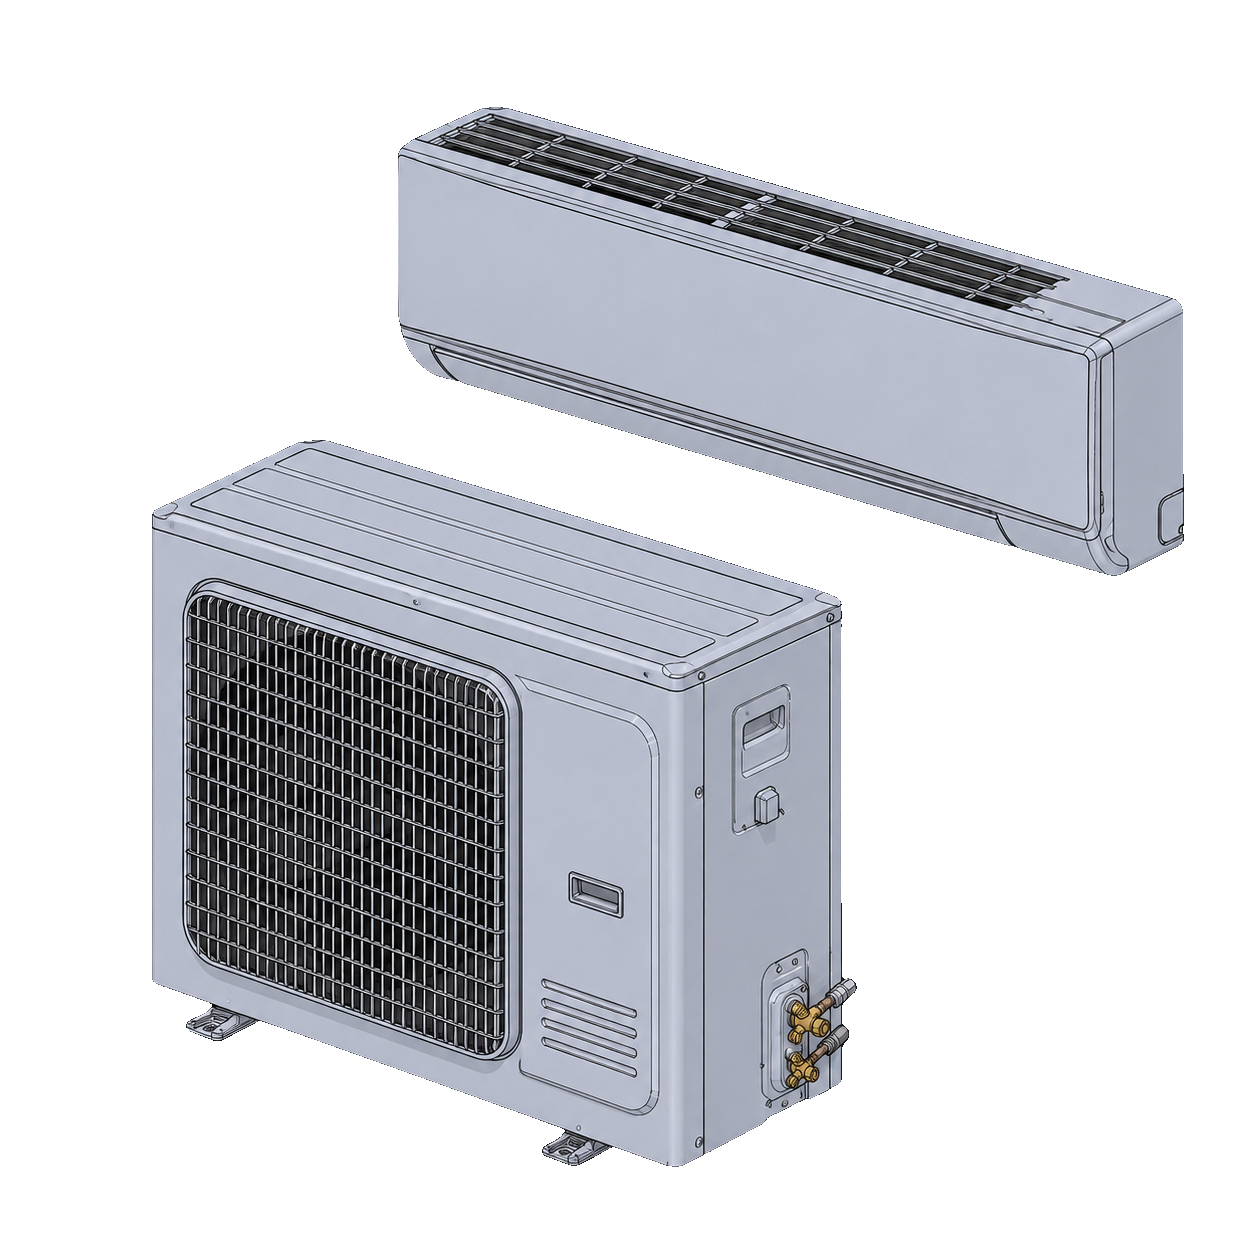
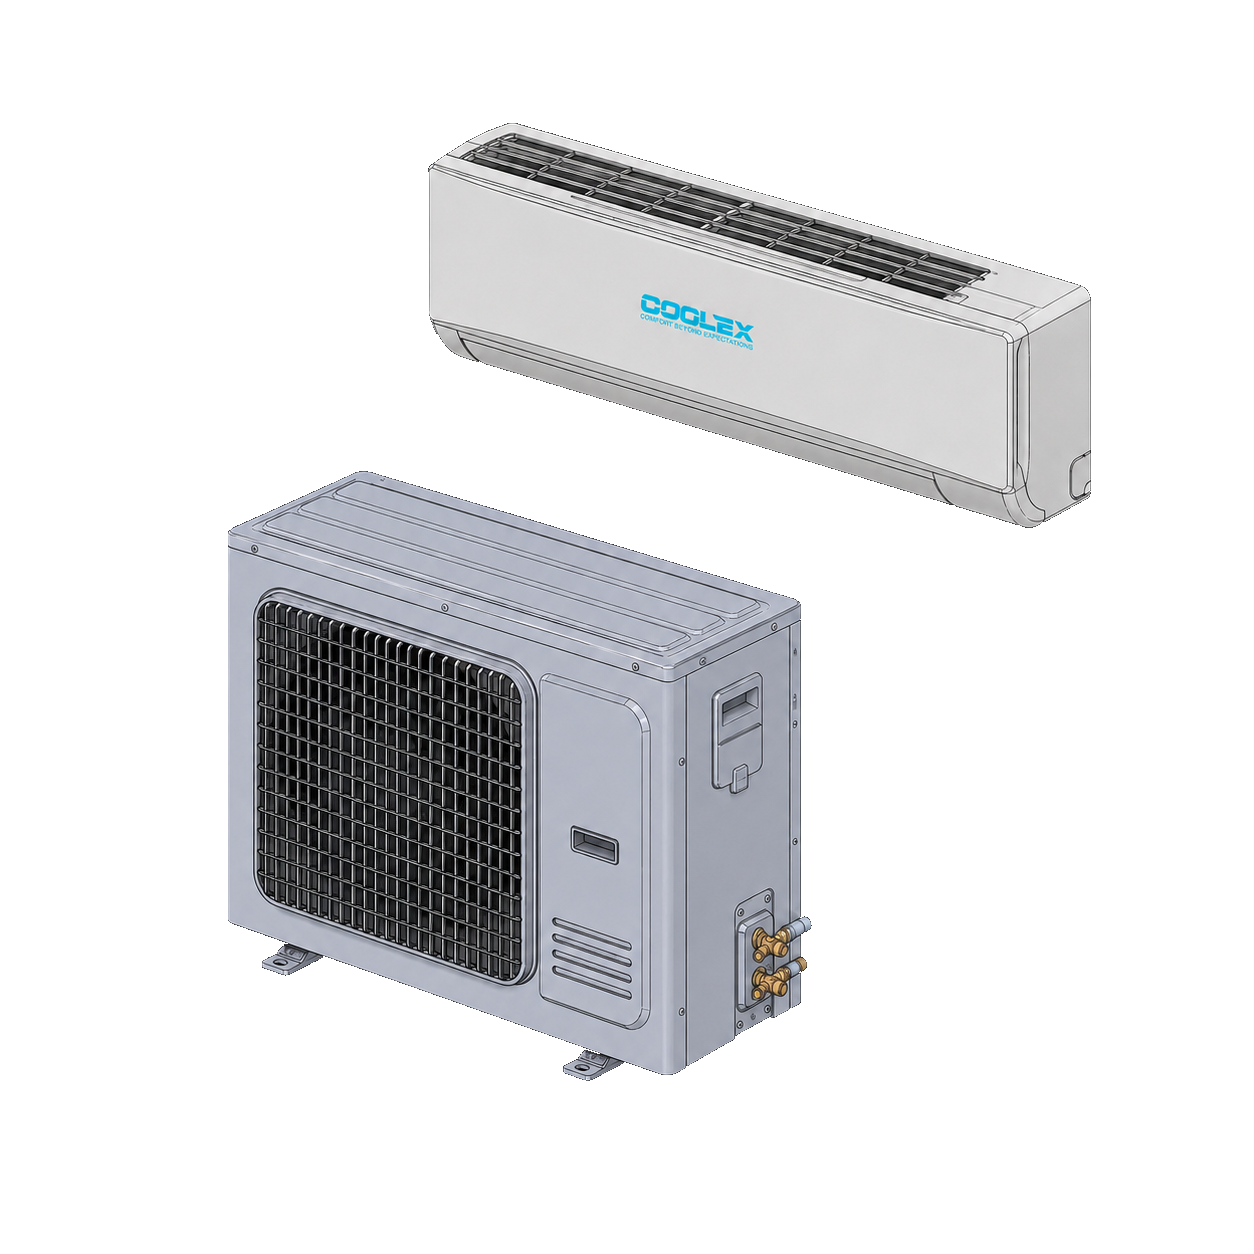
feat: update SeriesGrid, product series data, and MS wall image

Changed region(s): [[0.0933, 0.3421, 0.6842, 0.933], [0.311, 0.0622, 0.9641, 0.4665]]

diff --git a/components/selection/SeriesGrid.tsx b/components/selection/SeriesGrid.tsx
@@ -100,23 +100,21 @@ export function SeriesGrid() {
         });
     }
 
-    // Fallback: group by refrigerant
-    const groups = new Map<string, ProductSeries[]>();
-    for (const s of series) {
-      const ref = s.primaryRefrigerant;
-      if (!groups.has(ref)) groups.set(ref, []);
-      groups.get(ref)!.push(s);
-    }
-    // Order refrigerants with R-410A first, then the rest alphabetically
+    // Fallback: no speed types. The refrigerant is already shown as a badge on
+    // each card, so a refrigerant section header would just duplicate it. Render
+    // a single header-less group (ordering R-410A first) so the cards flow in a
+    // flat grid.
     const refOrder = (ref: string) => (ref === 'R-410A' ? 0 : 1);
-    return Array.from(groups.entries())
-      .sort(([a], [b]) => refOrder(a) - refOrder(b) || a.localeCompare(b))
-      .map(([ref, items]) => ({
-        key: ref,
-        label: ref,
-        icon: 'snowflake' as const,
-        items,
-      }));
+    const ordered = [...series].sort(
+      (a, b) => refOrder(a.primaryRefrigerant) - refOrder(b.primaryRefrigerant)
+        || a.primaryRefrigerant.localeCompare(b.primaryRefrigerant)
+    );
+    return [{
+      key: 'all',
+      label: '',
+      icon: 'snowflake' as const,
+      items: ordered,
+    }];
   }, [series, hasSpeedTypes]);
 
 

diff --git a/lib/mock-data/product-series.ts b/lib/mock-data/product-series.ts
@@ -49,11 +49,11 @@ export const PRODUCT_SERIES: ProductSeries[] = [
     name: 'Wall Mounted',
     fullName: 'Mini-Split Wall-Mounted Series',
     modelPrefix: 'MS-W',
-    minTons: 0.75,
-    maxTons: 4,
-    tonRangeLabel: '0.75 – 4 Tons',
-    refrigerants: ['R-32'],
-    primaryRefrigerant: 'R-32',
+    minTons: 1.5,
+    maxTons: 3,
+    tonRangeLabel: '1.5 – 3 Tons',
+    refrigerants: ['R-410A'],
+    primaryRefrigerant: 'R-410A',
     keyDifferentiator: '',
     description: 'Residential and light commercial wall-mounted mini-split units with inverter technology for maximum efficiency.',
     features: [],
@@ -62,6 +62,7 @@ export const PRODUCT_SERIES: ProductSeries[] = [
     hasDualRefrigerant: false,
     hasSpeedVariants: true,
     imageUrl: '/images/ms-wall.png',
+    imageScale: 1.35,
   },
   {
     id: 'ms-cas',
@@ -69,9 +70,9 @@ export const PRODUCT_SERIES: ProductSeries[] = [
     name: 'Cassette',
     fullName: 'Cassette / Ceiling Mini-Split Series',
     modelPrefix: 'MS-C',
-    minTons: 1,
-    maxTons: 10,
-    tonRangeLabel: '1 – 10 Tons',
+    minTons: 2,
+    maxTons: 5,
+    tonRangeLabel: '2 – 5 Tons',
     refrigerants: ['R-410A'],
     primaryRefrigerant: 'R-410A',
     keyDifferentiator: '',
@@ -88,9 +89,9 @@ export const PRODUCT_SERIES: ProductSeries[] = [
     name: 'Floor Standing',
     fullName: 'Floor-Standing Mini-Split Series',
     modelPrefix: 'MS-F',
-    minTons: 1.5,
-    maxTons: 5,
-    tonRangeLabel: '1.5 – 5 Tons',
+    minTons: 3,
+    maxTons: 4,
+    tonRangeLabel: '3 – 4 Tons',
     refrigerants: ['R-410A'],
     primaryRefrigerant: 'R-410A',
     keyDifferentiator: '',